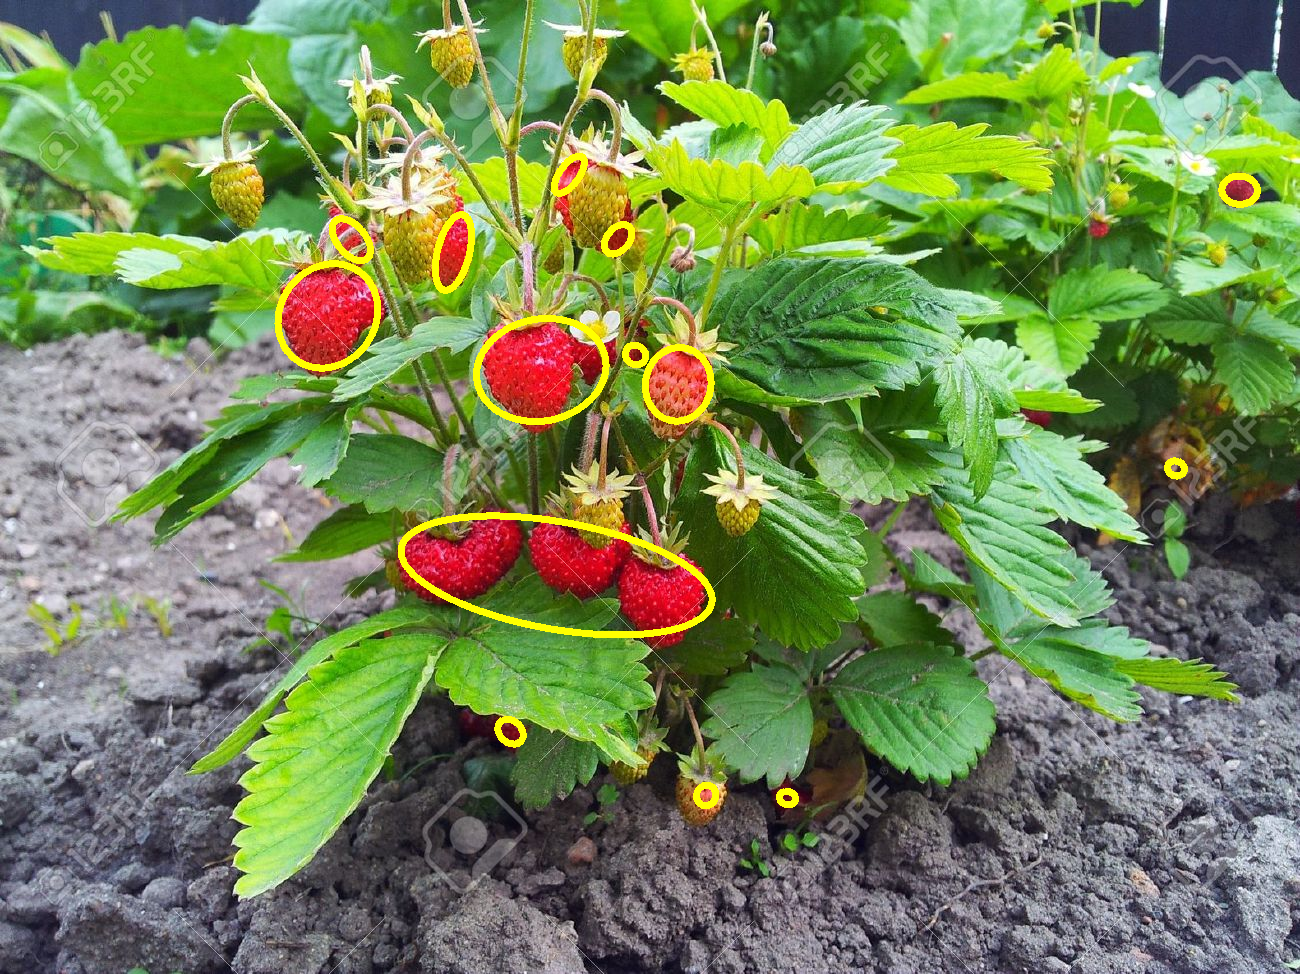
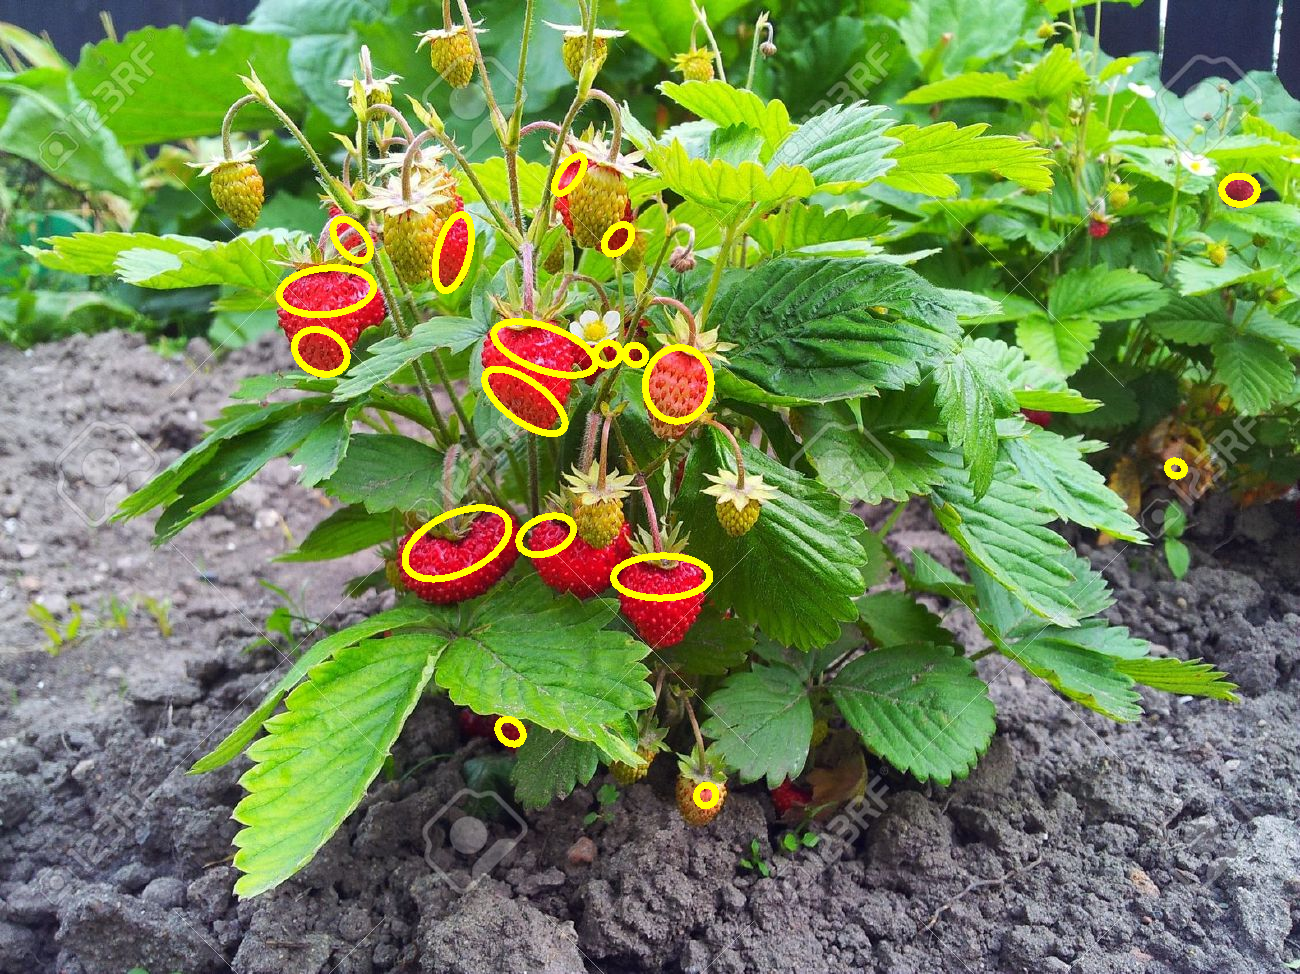
updated from usb drive

diff --git a/detector.py b/detector.py
@@ -6,58 +6,60 @@ import shutil
 
 
 def find_biggest_contour(image):
-	# Copy to prevent modification
-	image = image.copy()
-	_, contours, hierarchy = cv2.findContours(image, cv2.RETR_LIST, cv2.CHAIN_APPROX_SIMPLE)
+    # Copy to prevent modification
+    image = image.copy()
+    _, contours, hierarchy = cv2.findContours(image, cv2.RETR_LIST, cv2.CHAIN_APPROX_SIMPLE)
 
+    centers = []
+    for ii in range(len(contours)):
+        moments = cv2.moments(contours[ii])
+        centers.append((int(moments['m10'] / moments['m00']), int(moments['m01'] / moments['m00'])))
 
-	centers = []
-	for ii in range(len(contours)):
-		moments = cv2.moments(contours[ii])
-		centers.append((int(moments['m10'] / moments['m00']), int(moments['m01'] / moments['m00'])))
+    mask = np.zeros(image.shape, np.uint8)
+    cv2.drawContours(mask, contours, -1, 255, -1)
+    return contours, mask, centers
 
-	mask = np.zeros(image.shape, np.uint8)
-	cv2.drawContours(mask, contours, -1, 255, -1)
-	return contours, mask, centers
 
 if __name__ == '__main__':
 
-	files = [os.path.join('./inputs', file) for file in os.listdir('./inputs') if file.endswith('.jpeg') or file.endswith('.jpg')]
+    files = [os.path.join('./inputs', f) for f in os.listdir('./inputs') if f.endswith('.jpeg') or f.endswith('.jpg')]
 
-	if os.path.exists("./outputs"):
-		shutil.rmtree('./outputs')
-	os.makedirs("./outputs")
+    if os.path.exists("./outputs"):
+        shutil.rmtree('./outputs')
+    os.makedirs("./outputs")
 
-	for fname in files:
-		# Convert image to RGB
-		image = cv2.imread(fname)
-		image = cv2.cvtColor(image, cv2.COLOR_BGR2RGB)
-		# Blur image slightly
-		image_blur = cv2.GaussianBlur(image, (7, 7), 0)
-		image_blur_hsv = cv2.cvtColor(image_blur, cv2.COLOR_RGB2HSV)
-		# 0-10 hue
-		min_red = np.array([0, 100, 80])
-		max_red = np.array([10, 256, 256])
-		image_red1 = cv2.inRange(image_blur_hsv, min_red, max_red)
-		# 170-180 hue
-		min_red2 = np.array([170, 100, 80])
-		max_red2 = np.array([180, 256, 256])
-		image_red2 = cv2.inRange(image_blur_hsv, min_red2, max_red2)
-		image_red = image_red1 + image_red2
-		kernel = cv2.getStructuringElement(cv2.MORPH_ELLIPSE, (15, 15))
-		image_red_closed = cv2.morphologyEx(image_red, cv2.MORPH_CLOSE, kernel)
-		image_red_closed_then_opened = cv2.morphologyEx(image_red_closed, cv2.MORPH_OPEN, kernel)
+    for f in files:
+        # Convert image to RGB from BGR
+        image = cv2.imread(f)
+        image = cv2.cvtColor(image, cv2.COLOR_BGR2RGB)
 
-		contours, red_mask, centers = find_biggest_contour(image_red_closed_then_opened)
+        # Blur image slightly
+        image_blur = cv2.GaussianBlur(image, (7, 7), 0)
+        image_blur_hsv = cv2.cvtColor(image_blur, cv2.COLOR_RGB2HSV)
 
-		image_with_com = image.copy()
-		for center in centers:
-			cv2.circle(image_with_com, tuple(center), 10, (255, 255, 0), -1)
-		plt.imsave("./outputs/" + os.path.basename(fname).split('.')[0] + "_com.png", image_with_com)
+        # 0-10 hue
+        min_red = np.array([0, 100, 80])
+        max_red = np.array([10, 256, 256])
+        image_red1 = cv2.inRange(image_blur_hsv, min_red, max_red)
+        # 170-180 hue
+        min_red2 = np.array([170, 100, 80])
+        max_red2 = np.array([175, 256, 256])
+        image_red2 = cv2.inRange(image_blur_hsv, min_red2, max_red2)
+        image_red = image_red1 + image_red2
+        kernel = cv2.getStructuringElement(cv2.MORPH_ELLIPSE, (15, 15))
+        image_red_closed = cv2.morphologyEx(image_red, cv2.MORPH_CLOSE, kernel)
+        image_red_closed_then_opened = cv2.morphologyEx(image_red_closed, cv2.MORPH_OPEN, kernel)
 
-		image_with_ellipse = image.copy()
+        contours, red_mask, centers = find_biggest_contour(image_red_closed_then_opened)
 
-		for contour in contours:
-			ellipse = cv2.fitEllipse(contour)
-			cv2.ellipse(image_with_ellipse, ellipse, (255, 255, 0), 5)
-		plt.imsave("./outputs/" + os.path.basename(fname).split('.')[0] + "_ellipse.png", image_with_ellipse)
+        image_with_com = image.copy()
+        for center in centers:
+            cv2.circle(image_with_com, tuple(center), 10, (255, 255, 0), -1)
+        plt.imsave("./outputs/" + os.path.basename(f).split('.')[0] + "_com.png", image_with_com)
+
+        image_with_ellipse = image.copy()
+
+        for contour in contours:
+            ellipse = cv2.fitEllipse(contour)
+            cv2.ellipse(image_with_ellipse, ellipse, (255, 255, 0), 5)
+        plt.imsave("./outputs/" + os.path.basename(f).split('.')[0] + "_ellipse.png", image_with_ellipse)
